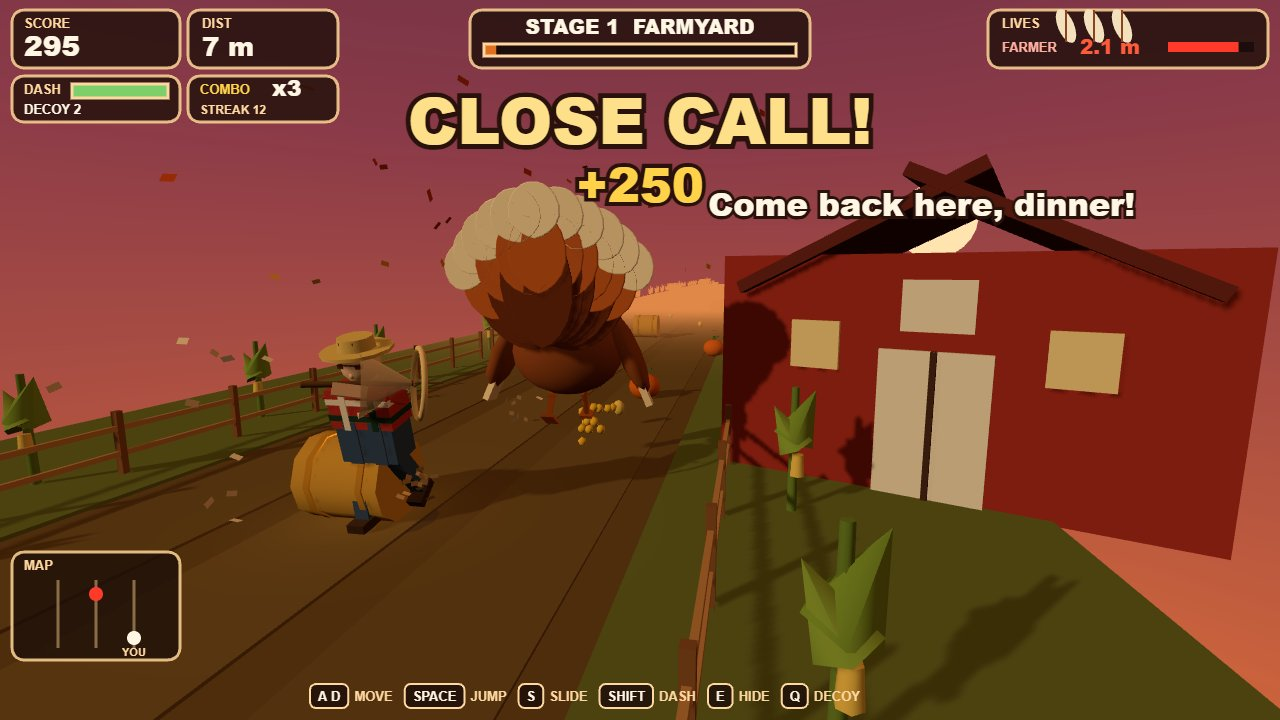
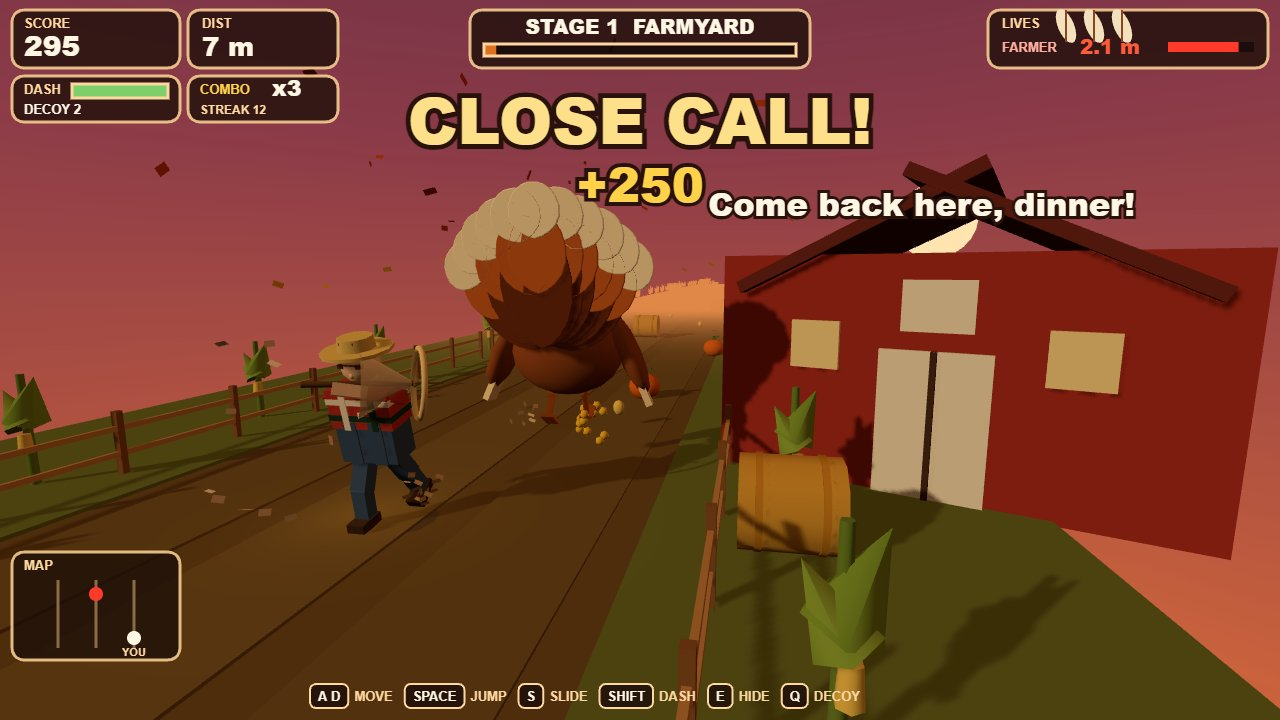
WIP after phase 4 (driver commit)

diff --git a/game/src/main.js b/game/src/main.js
@@ -291,6 +291,25 @@ function simulate(dt) {
   audio.tick(dt, state.mode === MODE_RUN);
 }
 
+function shovePropsClear(actor, root) {
+  root.updateMatrixWorld(true);
+  actor.updateMatrixWorld(true);
+  const actorBox = new THREE.Box3().setFromObject(actor);
+  actorBox.expandByScalar(0.35);
+  const propBox = new THREE.Box3();
+  const size = new THREE.Vector3();
+  root.children.forEach((segment) => {
+    segment.children.forEach((prop) => {
+      propBox.setFromObject(prop);
+      propBox.getSize(size);
+      if (size.x > 5 || size.z > 6 || size.y < 0.2) return;
+      if (!propBox.intersectsBox(actorBox)) return;
+      const side = prop.position.x >= 0 ? 1 : -1;
+      prop.position.x += side * 5.4;
+    });
+  });
+}
+
 let shotLeft = query.name ? shotSteps(query.name) : 0;
 if (query.name) {
   state.shot = query.name;
@@ -406,6 +425,10 @@ if (query.name) {
     state.shoutT = 2;
   }
   syncWorld(STEP);
+  if (query.name === 'cover' || query.name === 'end') {
+    shovePropsClear(farmerMesh, track.root);
+    shovePropsClear(turkey, track.root);
+  }
   renderer.render(scene, camera);
   hud.draw(state);
   screens.show(state);
